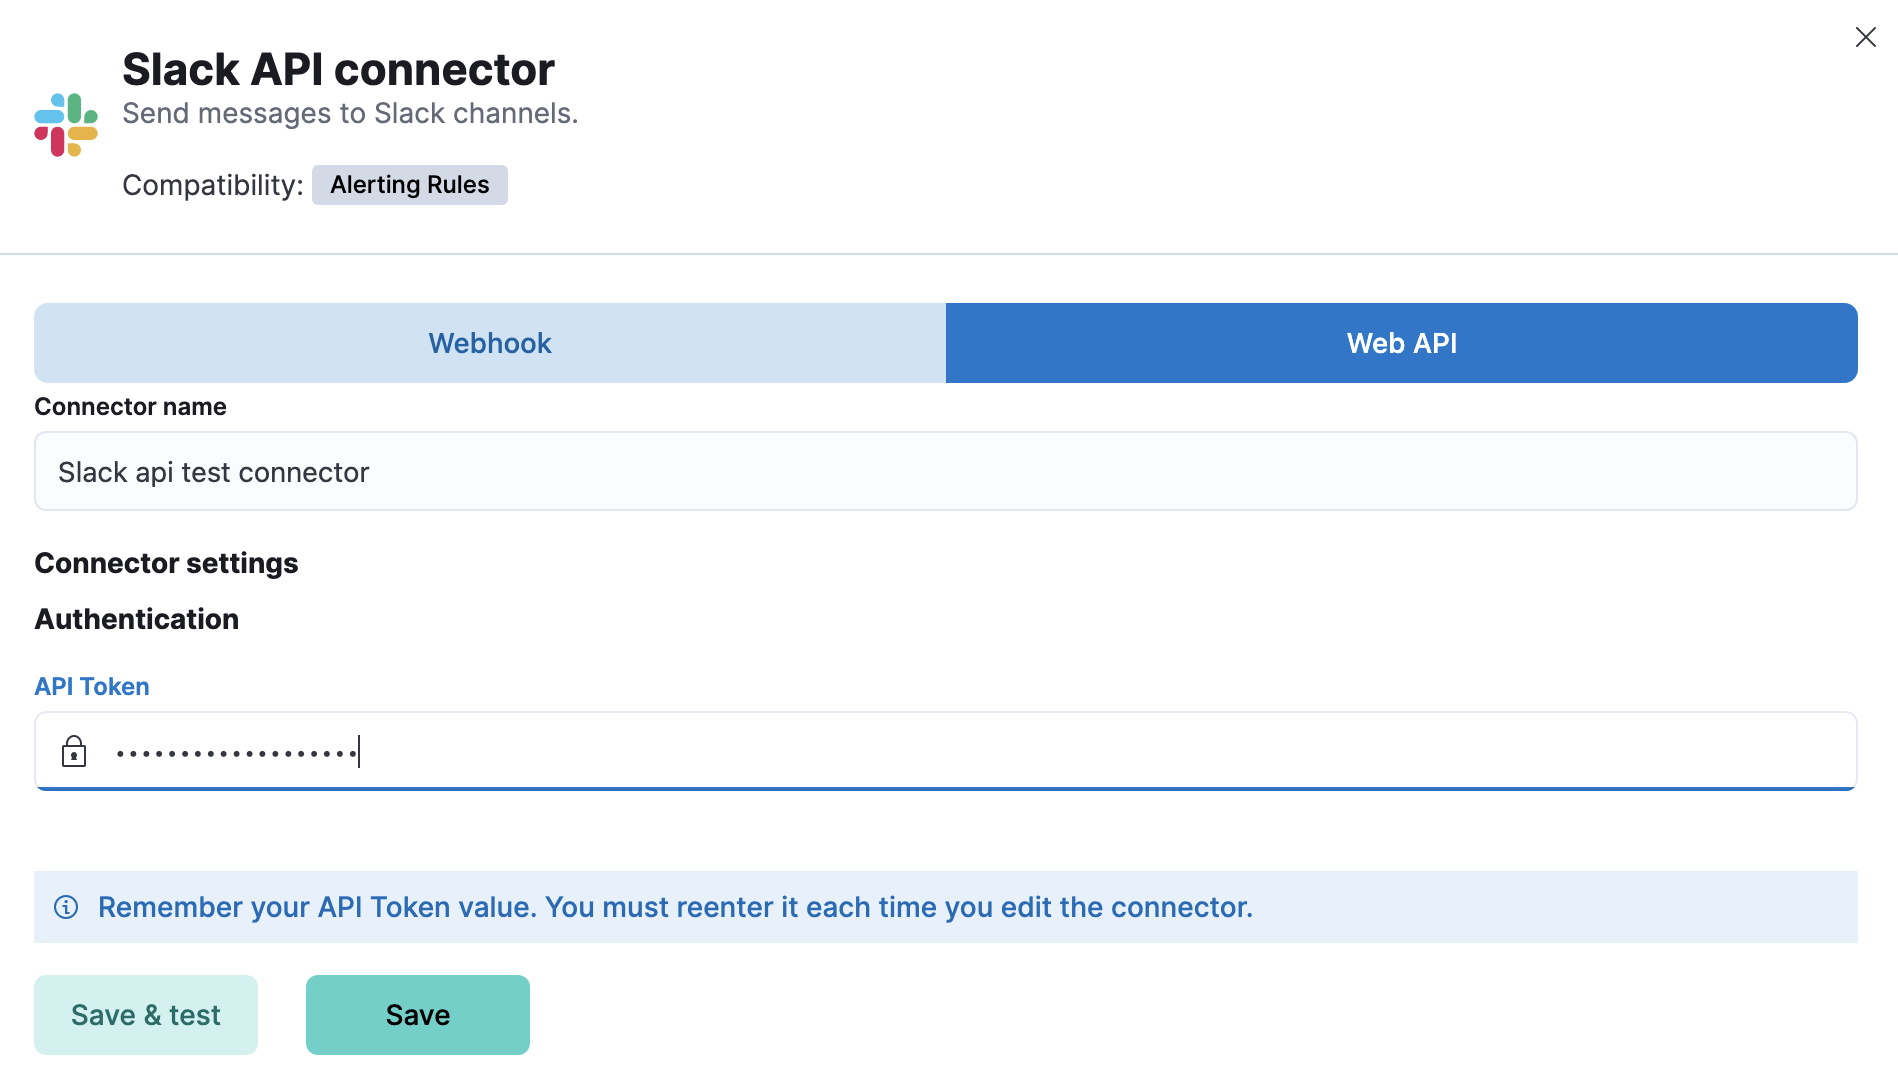
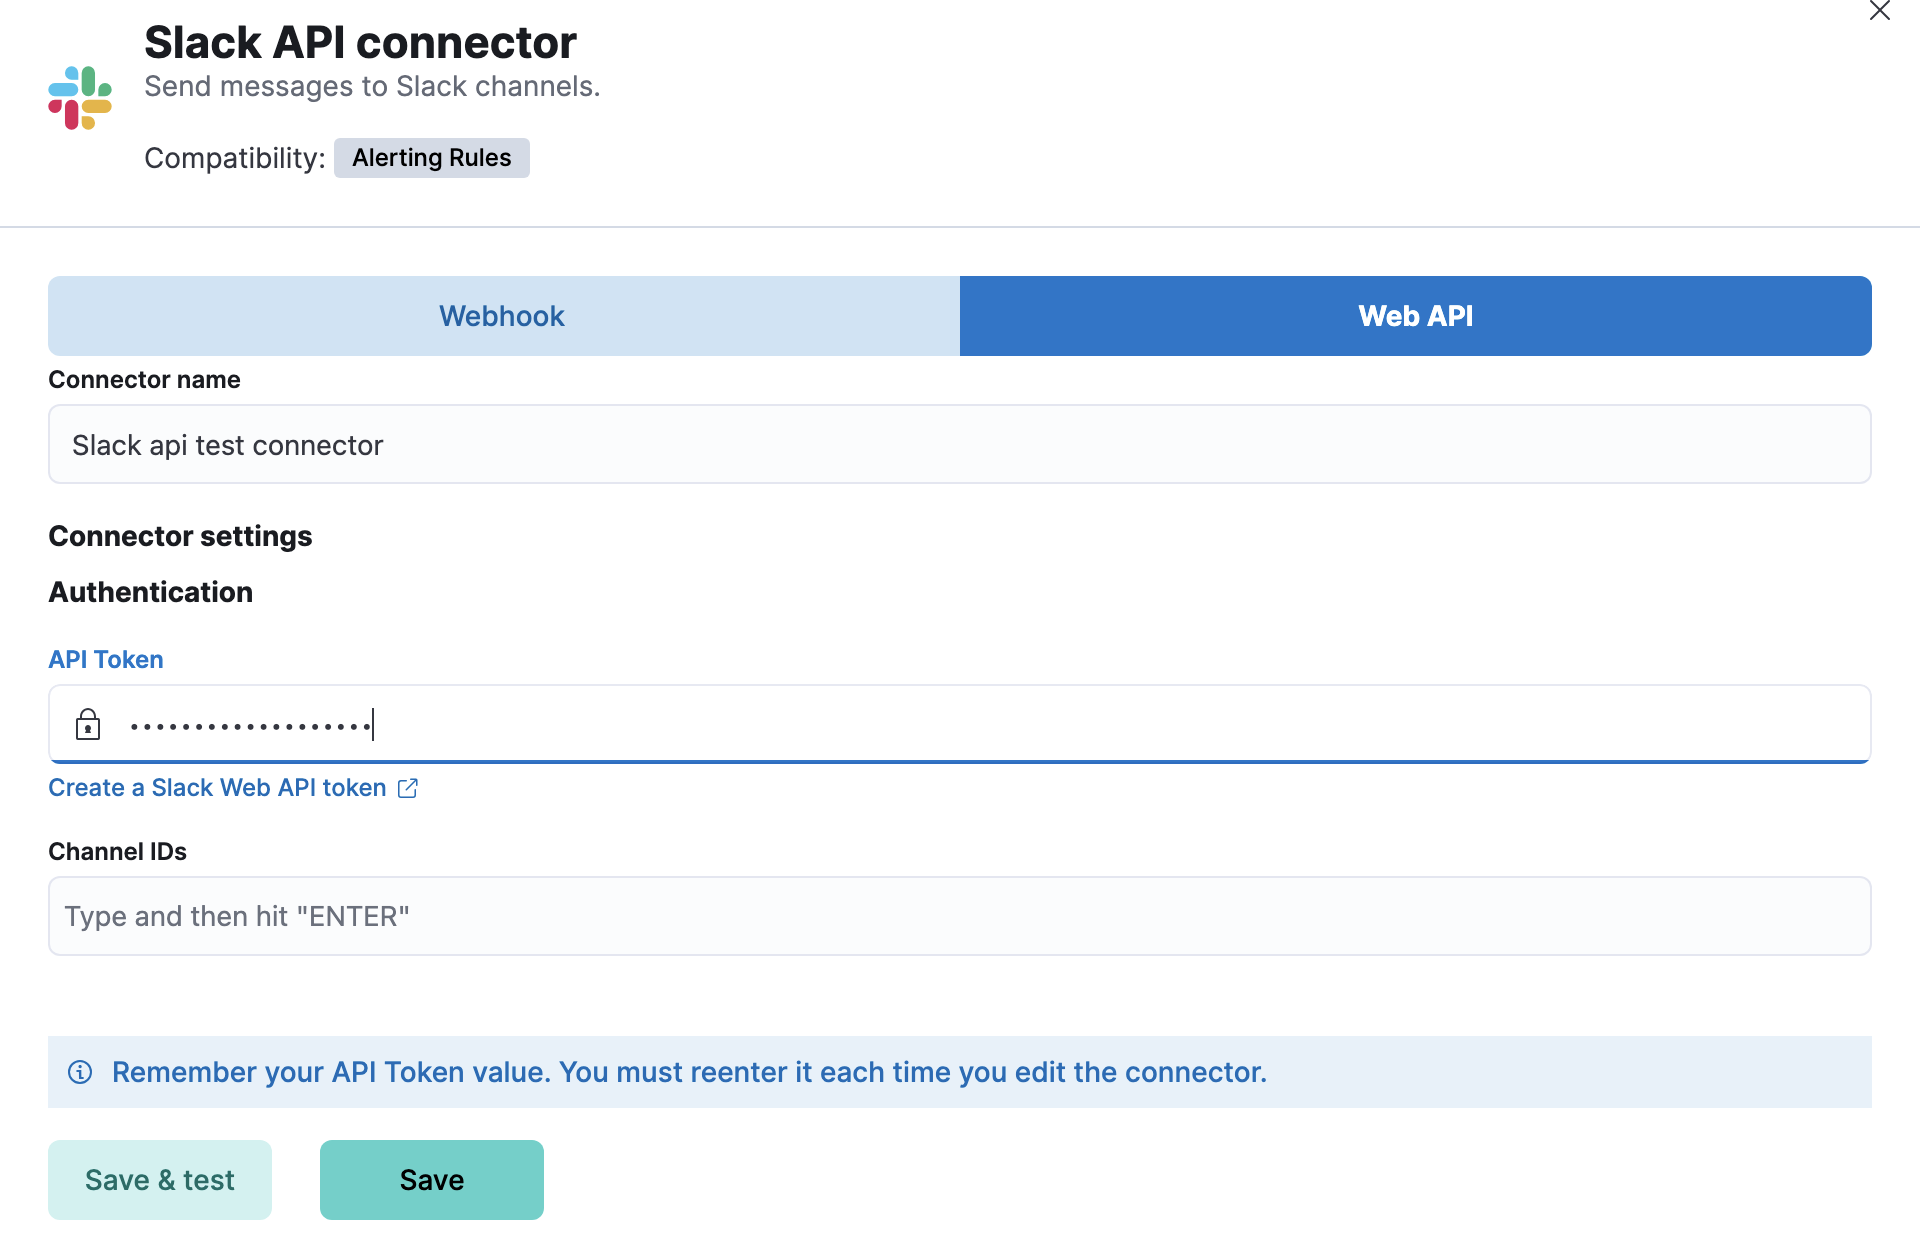
[DOCS] Slack api allowed channels (#169706)

diff --git a/x-pack/test/screenshot_creation/apps/response_ops_docs/stack_connectors/slack_connector.ts b/x-pack/test/screenshot_creation/apps/response_ops_docs/stack_connectors/slack_connector.ts
@@ -28,11 +28,7 @@ export default function ({ getService, getPageObjects }: FtrProviderContext) {
       await testSubjects.setValue('nameInput', 'Slack api test connector');
       await testSubjects.setValue('secrets.token-input', 'xoxb-XXXX-XXXX-XXXX');
       await commonScreenshots.takeScreenshot('slack-api-connector', screenshotDirectories);
-      await testSubjects.click('create-connector-flyout-save-test-btn');
-      await testSubjects.click('toastCloseButton');
-      await pageObjects.common.closeToast();
-      await commonScreenshots.takeScreenshot('slack-api-params', screenshotDirectories);
-      await testSubjects.click('euiFlyoutCloseButton');
+      await testSubjects.click('create-connector-flyout-back-btn');
     });
 
     it('slack webhook connector screenshots', async () => {
